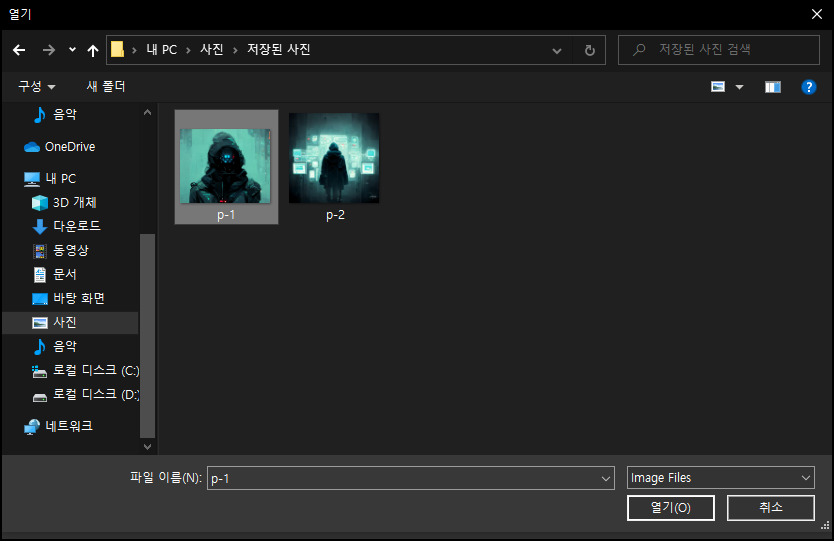
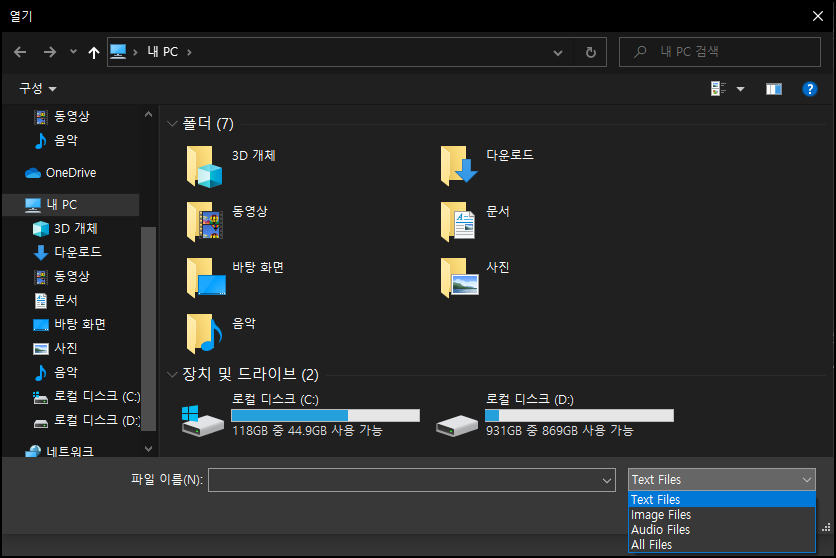
rebuilding site Mon Dec 26 12:26:07     2022

diff --git a/post/lang_java/study/javafx/filechooser_directorychooser/index.html b/post/lang_java/study/javafx/filechooser_directorychooser/index.html
@@ -191,34 +191,85 @@ if (!doNotTrack) {
 </li>
 <li>
 <p>ex) 열기 옵션으로 FileChooser를 실행한 코드</p>
-<div class="highlight"><pre tabindex="0" style="color:#f8f8f2;background-color:#272822;-moz-tab-size:4;-o-tab-size:4;tab-size:4;"><code class="language-java" data-lang="java"><span style="display:flex;"><span><span style="color:#f92672">import</span> java.io.File<span style="color:#f92672">;</span>
+<ul>
+<li>Root.fxml</li>
+</ul>
+<div class="highlight"><pre tabindex="0" style="color:#f8f8f2;background-color:#272822;-moz-tab-size:4;-o-tab-size:4;tab-size:4;"><code class="language-xml" data-lang="xml"><span style="display:flex;"><span><span style="color:#75715e">&lt;?xml version=&#34;1.0&#34; encoding=&#34;UTF-8&#34;?&gt;</span>
 </span></span><span style="display:flex;"><span>
-</span></span><span style="display:flex;"><span><span style="color:#f92672">import</span> javafx.application.Application<span style="color:#f92672">;</span>
+</span></span><span style="display:flex;"><span><span style="color:#75715e">&lt;?import javafx.geometry.Insets?&gt;</span>
+</span></span><span style="display:flex;"><span><span style="color:#75715e">&lt;?import javafx.scene.control.Button?&gt;</span>
+</span></span><span style="display:flex;"><span><span style="color:#75715e">&lt;?import javafx.scene.layout.HBox?&gt;</span>
+</span></span><span style="display:flex;"><span>
+</span></span><span style="display:flex;"><span><span style="color:#f92672">&lt;HBox</span> <span style="color:#a6e22e">fx:controller=</span><span style="color:#e6db74">&#34;dialog.RootController&#34;</span> <span style="color:#a6e22e">spacing=</span><span style="color:#e6db74">&#34;10.0&#34;</span> 
+</span></span><span style="display:flex;"><span>	  <span style="color:#a6e22e">xmlns:fx=</span><span style="color:#e6db74">&#34;http://javafx.com/fxml/1&#34;</span> 
+</span></span><span style="display:flex;"><span>	  <span style="color:#a6e22e">xmlns=</span><span style="color:#e6db74">&#34;http://javafx.com/javafx/19&#34;</span><span style="color:#f92672">&gt;</span>
+</span></span><span style="display:flex;"><span>   <span style="color:#f92672">&lt;children&gt;</span>
+</span></span><span style="display:flex;"><span>      <span style="color:#f92672">&lt;Button</span> <span style="color:#a6e22e">onAction=</span><span style="color:#e6db74">&#34;#handleOpenFileChooser&#34;</span> 
+</span></span><span style="display:flex;"><span>      		  <span style="color:#a6e22e">mnemonicParsing=</span><span style="color:#e6db74">&#34;false&#34;</span> <span style="color:#a6e22e">text=</span><span style="color:#e6db74">&#34;Open FileChooser&#34;</span> <span style="color:#f92672">/&gt;</span>
+</span></span><span style="display:flex;"><span>   <span style="color:#f92672">&lt;/children&gt;</span>
+</span></span><span style="display:flex;"><span>   <span style="color:#f92672">&lt;padding&gt;</span>
+</span></span><span style="display:flex;"><span>      <span style="color:#f92672">&lt;Insets</span> <span style="color:#a6e22e">bottom=</span><span style="color:#e6db74">&#34;10.0&#34;</span> <span style="color:#a6e22e">left=</span><span style="color:#e6db74">&#34;10.0&#34;</span> <span style="color:#a6e22e">right=</span><span style="color:#e6db74">&#34;10.0&#34;</span> <span style="color:#a6e22e">top=</span><span style="color:#e6db74">&#34;10.0&#34;</span> <span style="color:#f92672">/&gt;</span>
+</span></span><span style="display:flex;"><span>   <span style="color:#f92672">&lt;/padding&gt;</span>
+</span></span><span style="display:flex;"><span><span style="color:#f92672">&lt;/HBox&gt;</span>
+</span></span></code></pre></div><ul>
+<li>RootController.java</li>
+</ul>
+<div class="highlight"><pre tabindex="0" style="color:#f8f8f2;background-color:#272822;-moz-tab-size:4;-o-tab-size:4;tab-size:4;"><code class="language-java" data-lang="java"><span style="display:flex;"><span><span style="color:#f92672">import</span> java.io.File<span style="color:#f92672">;</span>
+</span></span><span style="display:flex;"><span><span style="color:#f92672">import</span> java.net.URL<span style="color:#f92672">;</span>
+</span></span><span style="display:flex;"><span><span style="color:#f92672">import</span> java.util.ResourceBundle<span style="color:#f92672">;</span>
+</span></span><span style="display:flex;"><span>
+</span></span><span style="display:flex;"><span><span style="color:#f92672">import</span> javafx.event.ActionEvent<span style="color:#f92672">;</span>
+</span></span><span style="display:flex;"><span><span style="color:#f92672">import</span> javafx.fxml.Initializable<span style="color:#f92672">;</span>
 </span></span><span style="display:flex;"><span><span style="color:#f92672">import</span> javafx.stage.FileChooser<span style="color:#f92672">;</span>
 </span></span><span style="display:flex;"><span><span style="color:#f92672">import</span> javafx.stage.FileChooser.ExtensionFilter<span style="color:#f92672">;</span>
+</span></span><span style="display:flex;"><span><span style="color:#f92672">import</span> javafx.stage.Stage<span style="color:#f92672">;</span>
+</span></span><span style="display:flex;"><span>
+</span></span><span style="display:flex;"><span><span style="color:#66d9ef">public</span> <span style="color:#66d9ef">class</span> <span style="color:#a6e22e">RootController</span> <span style="color:#66d9ef">implements</span> Initializable <span style="color:#f92672">{</span>
+</span></span><span style="display:flex;"><span>	<span style="color:#a6e22e">@Override</span>
+</span></span><span style="display:flex;"><span>	<span style="color:#66d9ef">public</span> <span style="color:#66d9ef">void</span> <span style="color:#a6e22e">initialize</span><span style="color:#f92672">(</span>URL location<span style="color:#f92672">,</span> ResourceBundle resources<span style="color:#f92672">)</span> <span style="color:#f92672">{</span>
+</span></span><span style="display:flex;"><span>	<span style="color:#f92672">}</span>
+</span></span><span style="display:flex;"><span>
+</span></span><span style="display:flex;"><span>	<span style="color:#66d9ef">private</span> Stage primaryStage<span style="color:#f92672">;</span>
+</span></span><span style="display:flex;"><span>	<span style="color:#66d9ef">public</span> <span style="color:#66d9ef">void</span> <span style="color:#a6e22e">setPrimaryStage</span><span style="color:#f92672">(</span>Stage primaryStage<span style="color:#f92672">)</span> <span style="color:#f92672">{</span>
+</span></span><span style="display:flex;"><span>		<span style="color:#66d9ef">this</span><span style="color:#f92672">.</span><span style="color:#a6e22e">primaryStage</span> <span style="color:#f92672">=</span> primaryStage<span style="color:#f92672">;</span>
+</span></span><span style="display:flex;"><span>	<span style="color:#f92672">}</span>
+</span></span><span style="display:flex;"><span>
+</span></span><span style="display:flex;"><span>	<span style="color:#75715e">// 파일 열기 다이얼로그 실행
+</span></span></span><span style="display:flex;"><span><span style="color:#75715e"></span>	<span style="color:#66d9ef">public</span> <span style="color:#66d9ef">void</span> <span style="color:#a6e22e">handleOpenFileChooser</span><span style="color:#f92672">(</span>ActionEvent e<span style="color:#f92672">)</span> <span style="color:#f92672">{</span>
+</span></span><span style="display:flex;"><span>		FileChooser fileChooser <span style="color:#f92672">=</span> <span style="color:#66d9ef">new</span> FileChooser<span style="color:#f92672">();</span>
+</span></span><span style="display:flex;"><span>		fileChooser<span style="color:#f92672">.</span><span style="color:#a6e22e">getExtensionFilters</span><span style="color:#f92672">().</span><span style="color:#a6e22e">addAll</span><span style="color:#f92672">(</span>
+</span></span><span style="display:flex;"><span>			<span style="color:#66d9ef">new</span> ExtensionFilter<span style="color:#f92672">(</span><span style="color:#e6db74">&#34;Text Files&#34;</span><span style="color:#f92672">,</span> <span style="color:#e6db74">&#34;*.txt&#34;</span><span style="color:#f92672">),</span>
+</span></span><span style="display:flex;"><span>			<span style="color:#66d9ef">new</span> ExtensionFilter<span style="color:#f92672">(</span><span style="color:#e6db74">&#34;Image Files&#34;</span><span style="color:#f92672">,</span> <span style="color:#e6db74">&#34;*.png&#34;</span><span style="color:#f92672">,</span> <span style="color:#e6db74">&#34;*.jpg&#34;</span><span style="color:#f92672">,</span> <span style="color:#e6db74">&#34;*.gif&#34;</span><span style="color:#f92672">),</span>
+</span></span><span style="display:flex;"><span>			<span style="color:#66d9ef">new</span> ExtensionFilter<span style="color:#f92672">(</span><span style="color:#e6db74">&#34;Audio Files&#34;</span><span style="color:#f92672">,</span> <span style="color:#e6db74">&#34;*.wav&#34;</span><span style="color:#f92672">,</span> <span style="color:#e6db74">&#34;*.mp3&#34;</span><span style="color:#f92672">,</span> <span style="color:#e6db74">&#34;*.acc&#34;</span><span style="color:#f92672">),</span>
+</span></span><span style="display:flex;"><span>			<span style="color:#66d9ef">new</span> ExtensionFilter<span style="color:#f92672">(</span><span style="color:#e6db74">&#34;All Files&#34;</span><span style="color:#f92672">,</span> <span style="color:#e6db74">&#34;*.*&#34;</span><span style="color:#f92672">)</span>	
+</span></span><span style="display:flex;"><span>		<span style="color:#f92672">);</span>
+</span></span><span style="display:flex;"><span>
+</span></span><span style="display:flex;"><span>    <span style="color:#75715e">// 다이얼로그 띄우기
+</span></span></span><span style="display:flex;"><span><span style="color:#75715e"></span>		File selectedFile <span style="color:#f92672">=</span> fileChooser<span style="color:#f92672">.</span><span style="color:#a6e22e">showOpenDialog</span><span style="color:#f92672">(</span>primaryStage<span style="color:#f92672">);</span>
+</span></span><span style="display:flex;"><span>		<span style="color:#66d9ef">if</span><span style="color:#f92672">(</span>selectedFile <span style="color:#f92672">!=</span> <span style="color:#66d9ef">null</span><span style="color:#f92672">)</span> <span style="color:#f92672">{</span>
+</span></span><span style="display:flex;"><span>      <span style="color:#75715e">// 선택된 파일 경로 얻기
+</span></span></span><span style="display:flex;"><span><span style="color:#75715e"></span>			System<span style="color:#f92672">.</span><span style="color:#a6e22e">out</span><span style="color:#f92672">.</span><span style="color:#a6e22e">println</span><span style="color:#f92672">(</span>selectedFile<span style="color:#f92672">.</span><span style="color:#a6e22e">getPath</span><span style="color:#f92672">());</span>
+</span></span><span style="display:flex;"><span>		<span style="color:#f92672">}</span>
+</span></span><span style="display:flex;"><span>	<span style="color:#f92672">}</span>
+</span></span><span style="display:flex;"><span><span style="color:#f92672">}</span>
+</span></span></code></pre></div><ul>
+<li>AppMain.java</li>
+</ul>
+<div class="highlight"><pre tabindex="0" style="color:#f8f8f2;background-color:#272822;-moz-tab-size:4;-o-tab-size:4;tab-size:4;"><code class="language-java" data-lang="java"><span style="display:flex;"><span><span style="color:#f92672">import</span> javafx.application.Application<span style="color:#f92672">;</span>
+</span></span><span style="display:flex;"><span><span style="color:#f92672">import</span> javafx.fxml.FXMLLoader<span style="color:#f92672">;</span>
+</span></span><span style="display:flex;"><span><span style="color:#f92672">import</span> javafx.scene.Parent<span style="color:#f92672">;</span>
+</span></span><span style="display:flex;"><span><span style="color:#f92672">import</span> javafx.scene.Scene<span style="color:#f92672">;</span>
 </span></span><span style="display:flex;"><span><span style="color:#f92672">import</span> javafx.stage.Stage<span style="color:#f92672">;</span>
 </span></span><span style="display:flex;"><span>
 </span></span><span style="display:flex;"><span><span style="color:#66d9ef">public</span> <span style="color:#66d9ef">class</span> <span style="color:#a6e22e">AppMain</span> <span style="color:#66d9ef">extends</span> Application <span style="color:#f92672">{</span>
 </span></span><span style="display:flex;"><span>	<span style="color:#a6e22e">@Override</span>
 </span></span><span style="display:flex;"><span>	<span style="color:#66d9ef">public</span> <span style="color:#66d9ef">void</span> <span style="color:#a6e22e">start</span><span style="color:#f92672">(</span>Stage primaryStage<span style="color:#f92672">)</span> <span style="color:#66d9ef">throws</span> Exception <span style="color:#f92672">{</span>
+</span></span><span style="display:flex;"><span>		Parent parent <span style="color:#f92672">=</span> FXMLLoader<span style="color:#f92672">.</span><span style="color:#a6e22e">load</span><span style="color:#f92672">(</span>getClass<span style="color:#f92672">().</span><span style="color:#a6e22e">getResource</span><span style="color:#f92672">(</span><span style="color:#e6db74">&#34;Root.fxml&#34;</span><span style="color:#f92672">));</span>
+</span></span><span style="display:flex;"><span>		Scene scene <span style="color:#f92672">=</span> <span style="color:#66d9ef">new</span> Scene<span style="color:#f92672">(</span>parent<span style="color:#f92672">);</span>
 </span></span><span style="display:flex;"><span>
-</span></span><span style="display:flex;"><span>		FileChooser fileChooser <span style="color:#f92672">=</span> <span style="color:#66d9ef">new</span> FileChooser<span style="color:#f92672">();</span>
-</span></span><span style="display:flex;"><span>
-</span></span><span style="display:flex;"><span>		<span style="color:#75715e">// 파일 확장명으로 필터링 정보 추가
-</span></span></span><span style="display:flex;"><span><span style="color:#75715e"></span>		fileChooser<span style="color:#f92672">.</span><span style="color:#a6e22e">getExtensionFilters</span><span style="color:#f92672">().</span><span style="color:#a6e22e">addAll</span><span style="color:#f92672">(</span>
-</span></span><span style="display:flex;"><span>			<span style="color:#66d9ef">new</span> ExtensionFilter<span style="color:#f92672">(</span><span style="color:#e6db74">&#34;Text Files&#34;</span><span style="color:#f92672">,</span> <span style="color:#e6db74">&#34;*.txt&#34;</span><span style="color:#f92672">),</span>
-</span></span><span style="display:flex;"><span>			<span style="color:#66d9ef">new</span> ExtensionFilter<span style="color:#f92672">(</span><span style="color:#e6db74">&#34;Image Files&#34;</span><span style="color:#f92672">,</span> <span style="color:#e6db74">&#34;*.png&#34;</span><span style="color:#f92672">,</span> <span style="color:#e6db74">&#34;*.jpg&#34;</span><span style="color:#f92672">,</span> <span style="color:#e6db74">&#34;*.gif&#34;</span><span style="color:#f92672">),</span>
-</span></span><span style="display:flex;"><span>			<span style="color:#66d9ef">new</span> ExtensionFilter<span style="color:#f92672">(</span><span style="color:#e6db74">&#34;Audio Files&#34;</span><span style="color:#f92672">,</span> <span style="color:#e6db74">&#34;*.wav&#34;</span><span style="color:#f92672">,</span> <span style="color:#e6db74">&#34;*.mp3&#34;</span><span style="color:#f92672">,</span> <span style="color:#e6db74">&#34;*.acc&#34;</span><span style="color:#f92672">),</span>
-</span></span><span style="display:flex;"><span>			<span style="color:#66d9ef">new</span> ExtensionFilter<span style="color:#f92672">(</span><span style="color:#e6db74">&#34;All Files&#34;</span><span style="color:#f92672">,</span> <span style="color:#e6db74">&#34;*.*&#34;</span><span style="color:#f92672">)</span>
-</span></span><span style="display:flex;"><span>		<span style="color:#f92672">);</span>
-</span></span><span style="display:flex;"><span>
-</span></span><span style="display:flex;"><span>		<span style="color:#75715e">// 다이얼로그 띄우기
-</span></span></span><span style="display:flex;"><span><span style="color:#75715e"></span>		File selectedFile <span style="color:#f92672">=</span> fileChooser<span style="color:#f92672">.</span><span style="color:#a6e22e">showOpenDialog</span><span style="color:#f92672">(</span>primaryStage<span style="color:#f92672">);</span>
-</span></span><span style="display:flex;"><span>
-</span></span><span style="display:flex;"><span>		<span style="color:#75715e">// 선택된 파일 경로 얻기
-</span></span></span><span style="display:flex;"><span><span style="color:#75715e"></span>		String selectedFilePath <span style="color:#f92672">=</span> selectedFile<span style="color:#f92672">.</span><span style="color:#a6e22e">getPath</span><span style="color:#f92672">();</span>
-</span></span><span style="display:flex;"><span>		System<span style="color:#f92672">.</span><span style="color:#a6e22e">out</span><span style="color:#f92672">.</span><span style="color:#a6e22e">println</span><span style="color:#f92672">(</span>selectedFilePath<span style="color:#f92672">);</span>
-</span></span><span style="display:flex;"><span>
+</span></span><span style="display:flex;"><span>		primaryStage<span style="color:#f92672">.</span><span style="color:#a6e22e">setTitle</span><span style="color:#f92672">(</span><span style="color:#e6db74">&#34;AppMain&#34;</span><span style="color:#f92672">);</span>
+</span></span><span style="display:flex;"><span>		primaryStage<span style="color:#f92672">.</span><span style="color:#a6e22e">setScene</span><span style="color:#f92672">(</span>scene<span style="color:#f92672">);</span>
+</span></span><span style="display:flex;"><span>		primaryStage<span style="color:#f92672">.</span><span style="color:#a6e22e">show</span><span style="color:#f92672">();</span>
 </span></span><span style="display:flex;"><span>	<span style="color:#f92672">}</span>
 </span></span><span style="display:flex;"><span>
 </span></span><span style="display:flex;"><span>	<span style="color:#66d9ef">public</span> <span style="color:#66d9ef">static</span> <span style="color:#66d9ef">void</span> <span style="color:#a6e22e">main</span><span style="color:#f92672">(</span>String<span style="color:#f92672">[]</span> args<span style="color:#f92672">)</span> <span style="color:#f92672">{</span>
@@ -226,6 +277,7 @@ if (!doNotTrack) {
 </span></span><span style="display:flex;"><span>	<span style="color:#f92672">}</span>
 </span></span><span style="display:flex;"><span><span style="color:#f92672">}</span>
 </span></span></code></pre></div><p><img src="/images/lang_java/javaFx/FileChooser,_DirectoryChooser/Untitled.png" alt="Untitled"></p>
+<p><img src="/images/lang_java/javaFx/FileChooser,_DirectoryChooser/Untitled%201.png" alt="Untitled"></p>
 <ul>
 <li>파일 확장명으로 파일 이름을 필터링하면 ExtensionFilter를 생성해서 추가하면 된다.</li>
 <li><code>showOpenDialog()</code> 또는 <code>showSaveDialog()</code>를 호출할 때에는 소유자 윈도우(Stage)를 매개값으로 제공해야 한다.
@@ -243,8 +295,8 @@ if (!doNotTrack) {
 </li>
 <li>
 <p>선택된 파일의 전체 경로를 문자열로 얻고 싶다면 <code>getPath()</code>를 호출하면 된다.</p>
-<p><img src="/images/lang_java/javaFx/FileChooser,_DirectoryChooser/Untitled%201.png" alt="Untitled"></p>
 <p><img src="/images/lang_java/javaFx/FileChooser,_DirectoryChooser/Untitled%202.png" alt="Untitled"></p>
+<p><img src="/images/lang_java/javaFx/FileChooser,_DirectoryChooser/Untitled%203.png" alt="Untitled"></p>
 <ul>
 <li>파일이 아니라 디렉토리를 선택하고 싶다면 FileChooser 대신 DirectoryChooser를 사용하면 된다.
 <ul>
@@ -252,10 +304,17 @@ if (!doNotTrack) {
 </ul>
 </li>
 </ul>
-<div class="highlight"><pre tabindex="0" style="color:#f8f8f2;background-color:#272822;-moz-tab-size:4;-o-tab-size:4;tab-size:4;"><code class="language-java" data-lang="java"><span style="display:flex;"><span>DirectoryChooser directoryChooser <span style="color:#f92672">=</span> <span style="color:#66d9ef">new</span> DirectoryChooser<span style="color:#f92672">();</span>
-</span></span><span style="display:flex;"><span>File selectorDir <span style="color:#f92672">=</span> directoryChooser<span style="color:#f92672">.</span><span style="color:#a6e22e">showDialog</span><span style="color:#f92672">(</span>primaryStage<span style="color:#f92672">);</span>
-</span></span><span style="display:flex;"><span>String selectedDirPath <span style="color:#f92672">=</span> selectedDir<span style="color:#f92672">.</span><span style="color:#a6e22e">getPath</span><span style="color:#f92672">();</span>
-</span></span></code></pre></div></li>
+<div class="highlight"><pre tabindex="0" style="color:#f8f8f2;background-color:#272822;-moz-tab-size:4;-o-tab-size:4;tab-size:4;"><code class="language-java" data-lang="java"><span style="display:flex;"><span><span style="color:#75715e">// 디렉토리 선택 다이얼로그 실행
+</span></span></span><span style="display:flex;"><span><span style="color:#75715e"></span><span style="color:#66d9ef">public</span> <span style="color:#66d9ef">void</span> <span style="color:#a6e22e">handleDirectoryChooser</span><span style="color:#f92672">(</span>ActionEvent e<span style="color:#f92672">)</span> <span style="color:#f92672">{</span>
+</span></span><span style="display:flex;"><span>	DirectoryChooser directoryChooser <span style="color:#f92672">=</span> <span style="color:#66d9ef">new</span> DirectoryChooser<span style="color:#f92672">();</span>
+</span></span><span style="display:flex;"><span>	File selectedDir <span style="color:#f92672">=</span> directoryChooser<span style="color:#f92672">.</span><span style="color:#a6e22e">showDialog</span><span style="color:#f92672">(</span>primaryStage<span style="color:#f92672">);</span>
+</span></span><span style="display:flex;"><span>	<span style="color:#66d9ef">if</span><span style="color:#f92672">(</span>selectedDir <span style="color:#f92672">!=</span> <span style="color:#66d9ef">null</span><span style="color:#f92672">)</span> <span style="color:#f92672">{</span>
+</span></span><span style="display:flex;"><span>		System<span style="color:#f92672">.</span><span style="color:#a6e22e">out</span><span style="color:#f92672">.</span><span style="color:#a6e22e">println</span><span style="color:#f92672">(</span>selectedDir<span style="color:#f92672">.</span><span style="color:#a6e22e">getPath</span><span style="color:#f92672">());</span>
+</span></span><span style="display:flex;"><span>	<span style="color:#f92672">}</span>
+</span></span><span style="display:flex;"><span><span style="color:#f92672">}</span>
+</span></span></code></pre></div><p><img src="/images/lang_java/javaFx/FileChooser,_DirectoryChooser/Untitled%204.png" alt="Untitled"></p>
+<p><img src="/images/lang_java/javaFx/FileChooser,_DirectoryChooser/Untitled%205.png" alt="Untitled"></p>
+</li>
 </ul>
 <hr>
 <h2 id="references">References</h2>
